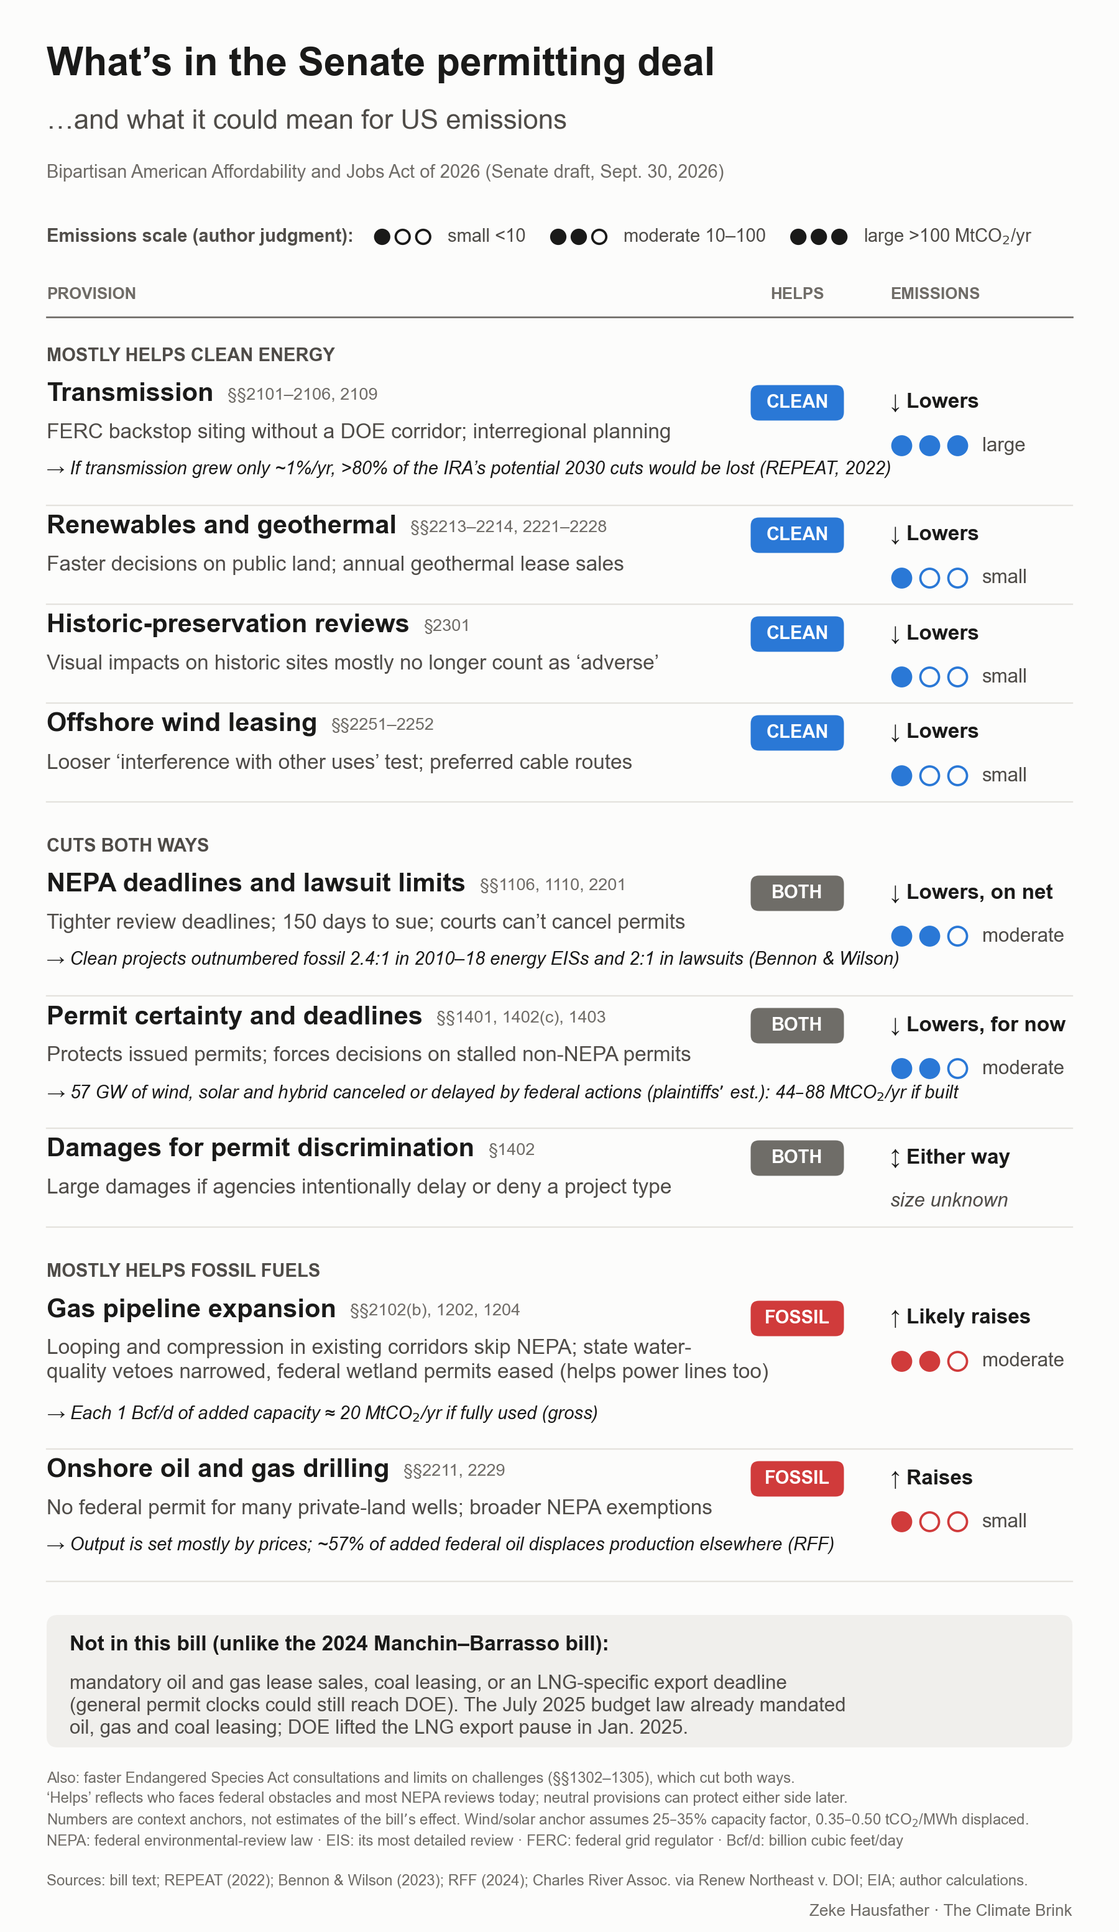
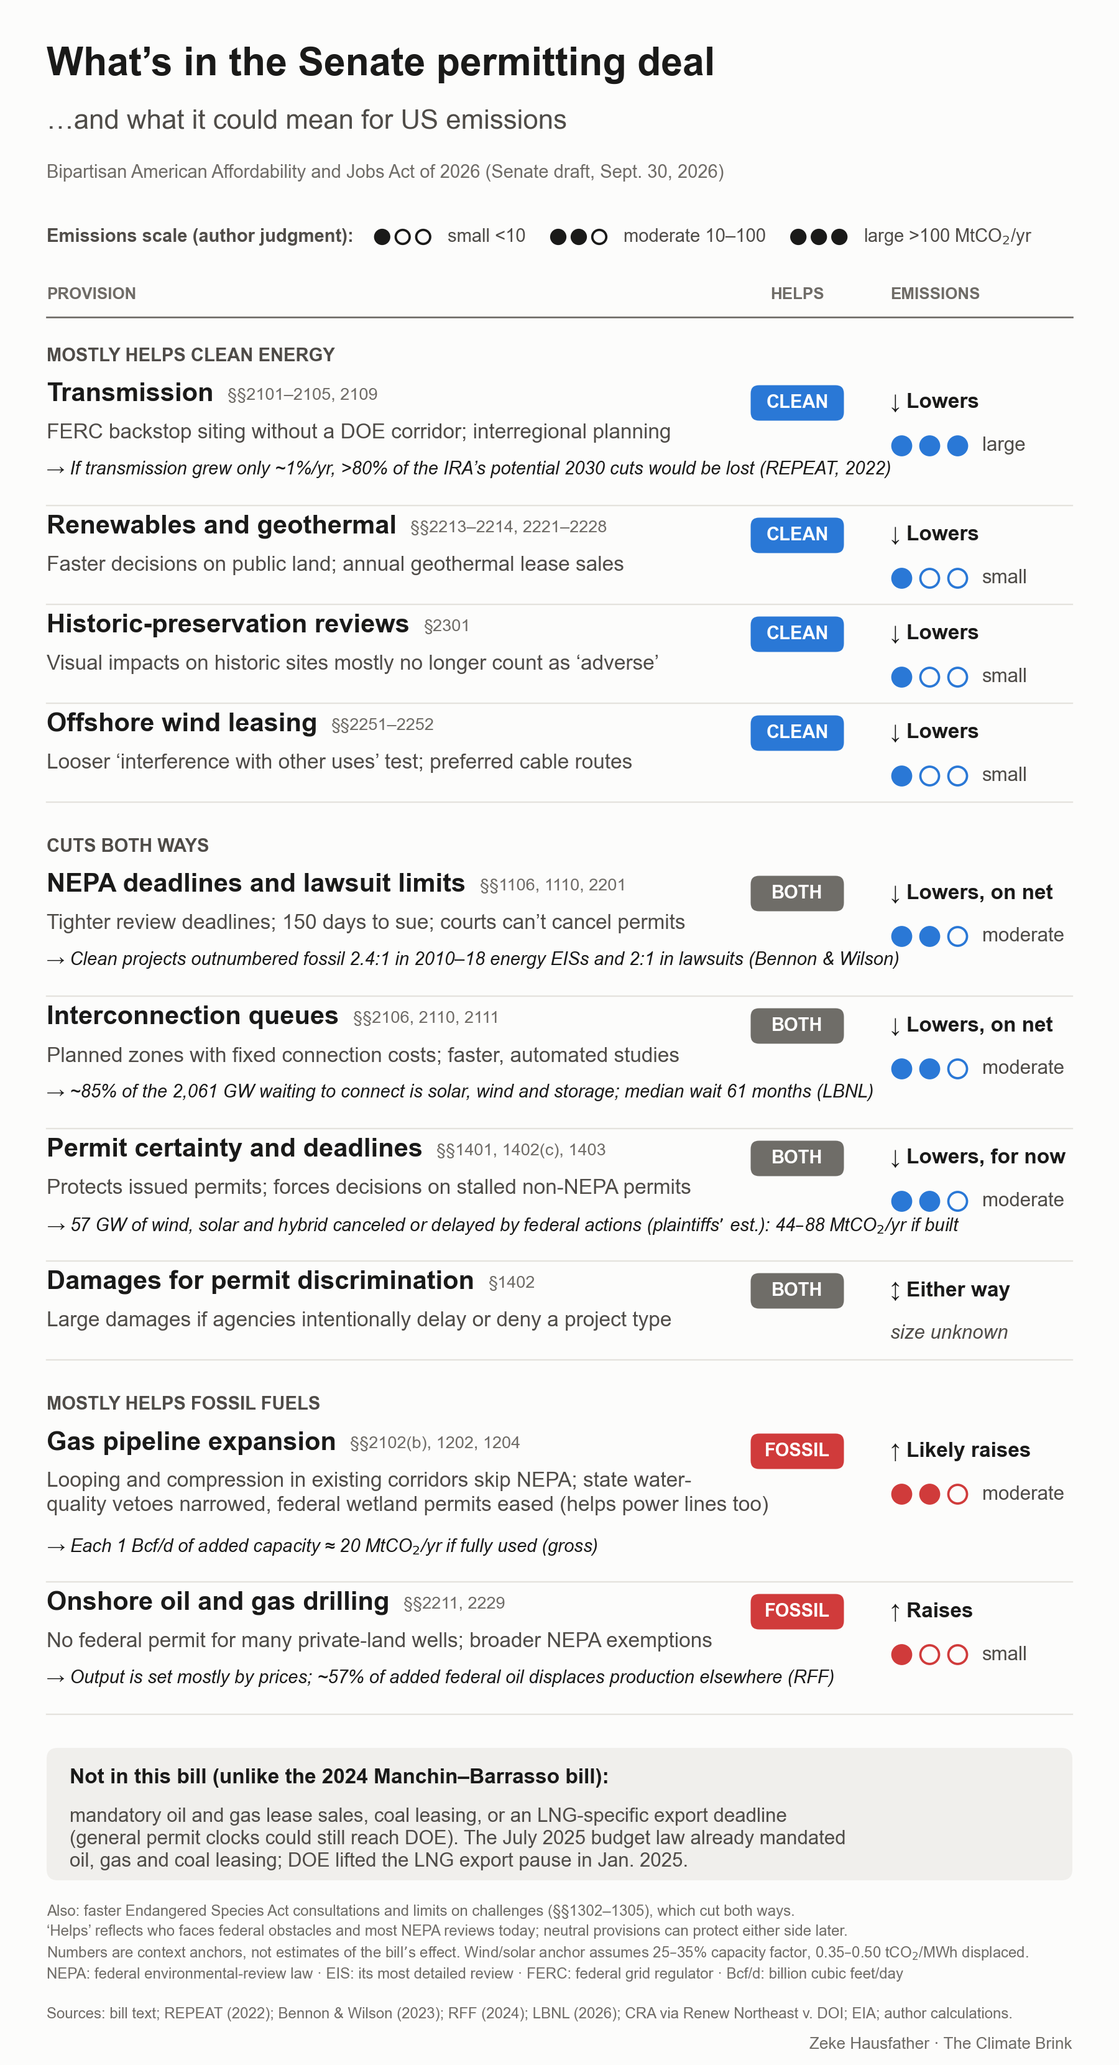
Add interconnection queues row (secs. 2106, 2110, 2111); remove NEPA-scope row

Changed region(s): [[0.0311, 0.0, 0.9644, 0.8115], [0.0311, 0.8427, 0.9333, 0.9987]]

diff --git a/index.html b/index.html
@@ -104,12 +104,13 @@ footer { font-size: .9rem; color: var(--ink3); }
       <thead><tr><th scope="col">Provision</th><th scope="col">What it does</th><th scope="col">Helps</th><th scope="col">Emissions</th></tr></thead>
       <tbody>
 <tr class="grp"><th colspan="4" scope="colgroup">Mostly helps clean energy</th></tr>
-<tr><td class="prov"><strong>Transmission</strong><span class="sec">§§2101–2106, 2109</span></td><td class="what"><p>FERC backstop siting without a DOE corridor; interregional planning</p><p class="anchor">→ If transmission grew only ~1%/yr, &gt;80% of the IRA’s potential 2030 cuts would be lost (REPEAT, 2022) <a href="https://zenodo.org/records/7106176" target="_blank" rel="noopener">source</a></p></td><td class="helps"><span class="chip chip-clean">CLEAN</span></td><td><div class="em em-down"><strong>↓ Lowers</strong><span class="scale"><span class="dot on"></span><span class="dot on"></span><span class="dot on"></span><span>large</span></span></div></td></tr>
+<tr><td class="prov"><strong>Transmission</strong><span class="sec">§§2101–2105, 2109</span></td><td class="what"><p>FERC backstop siting without a DOE corridor; interregional planning</p><p class="anchor">→ If transmission grew only ~1%/yr, &gt;80% of the IRA’s potential 2030 cuts would be lost (REPEAT, 2022) <a href="https://zenodo.org/records/7106176" target="_blank" rel="noopener">source</a></p></td><td class="helps"><span class="chip chip-clean">CLEAN</span></td><td><div class="em em-down"><strong>↓ Lowers</strong><span class="scale"><span class="dot on"></span><span class="dot on"></span><span class="dot on"></span><span>large</span></span></div></td></tr>
 <tr><td class="prov"><strong>Renewables and geothermal</strong><span class="sec">§§2213–2214, 2221–2228</span></td><td class="what"><p>Faster decisions on public land; annual geothermal lease sales</p></td><td class="helps"><span class="chip chip-clean">CLEAN</span></td><td><div class="em em-down"><strong>↓ Lowers</strong><span class="scale"><span class="dot on"></span><span class="dot"></span><span class="dot"></span><span>small</span></span></div></td></tr>
 <tr><td class="prov"><strong>Historic-preservation reviews</strong><span class="sec">§2301</span></td><td class="what"><p>Visual impacts on historic sites mostly no longer count as ‘adverse’</p></td><td class="helps"><span class="chip chip-clean">CLEAN</span></td><td><div class="em em-down"><strong>↓ Lowers</strong><span class="scale"><span class="dot on"></span><span class="dot"></span><span class="dot"></span><span>small</span></span></div></td></tr>
 <tr><td class="prov"><strong>Offshore wind leasing</strong><span class="sec">§§2251–2252</span></td><td class="what"><p>Looser ‘interference with other uses’ test; preferred cable routes</p></td><td class="helps"><span class="chip chip-clean">CLEAN</span></td><td><div class="em em-down"><strong>↓ Lowers</strong><span class="scale"><span class="dot on"></span><span class="dot"></span><span class="dot"></span><span>small</span></span></div></td></tr>
 <tr class="grp"><th colspan="4" scope="colgroup">Cuts both ways</th></tr>
 <tr><td class="prov"><strong>NEPA deadlines and lawsuit limits</strong><span class="sec">§§1106, 1110, 2201</span></td><td class="what"><p>Tighter review deadlines; 150 days to sue; courts can’t cancel permits</p><p class="anchor">→ Clean projects outnumbered fossil 2.4:1 in 2010–18 energy EISs and 2:1 in lawsuits (Bennon &amp; Wilson) <a href="https://www.elr.info/sites/default/files/files-general/53.10836.pdf" target="_blank" rel="noopener">source</a></p></td><td class="helps"><span class="chip chip-both">BOTH</span></td><td><div class="em em-down"><strong>↓ Lowers, on net</strong><span class="scale"><span class="dot on"></span><span class="dot on"></span><span class="dot"></span><span>moderate</span></span></div></td></tr>
+<tr><td class="prov"><strong>Interconnection queues</strong><span class="sec">§§2106, 2110, 2111</span></td><td class="what"><p>Planned zones with fixed connection costs; faster, automated studies</p><p class="anchor">→ ~85% of the 2,061 GW waiting to connect is solar, wind and storage; median wait 61 months (LBNL) <a href="https://emp.lbl.gov/publications/queued-2026-edition-characteristics" target="_blank" rel="noopener">source</a></p></td><td class="helps"><span class="chip chip-both">BOTH</span></td><td><div class="em em-down"><strong>↓ Lowers, on net</strong><span class="scale"><span class="dot on"></span><span class="dot on"></span><span class="dot"></span><span>moderate</span></span></div></td></tr>
 <tr><td class="prov"><strong>Permit certainty and deadlines</strong><span class="sec">§§1401, 1402(c), 1403</span></td><td class="what"><p>Protects issued permits; forces decisions on stalled non-NEPA permits</p><p class="anchor">→ 57 GW of wind, solar and hybrid canceled or delayed by federal actions (plaintiffs’ est.): 44–88 MtCO₂/yr if built <a href="https://www.utilitydive.com/news/court-trump-wind-solar-permitting/818152/" target="_blank" rel="noopener">source</a></p></td><td class="helps"><span class="chip chip-both">BOTH</span></td><td><div class="em em-down"><strong>↓ Lowers, for now</strong><span class="scale"><span class="dot on"></span><span class="dot on"></span><span class="dot"></span><span>moderate</span></span></div></td></tr>
 <tr><td class="prov"><strong>Damages for permit discrimination</strong><span class="sec">§1402</span></td><td class="what"><p>Large damages if agencies intentionally delay or deny a project type</p></td><td class="helps"><span class="chip chip-both">BOTH</span></td><td><div class="em em-both"><strong>↕ Either way</strong><span class="scale"><span>unknown</span></span></div></td></tr>
 <tr class="grp"><th colspan="4" scope="colgroup">Mostly helps fossil fuels</th></tr>
@@ -132,12 +133,12 @@ footer { font-size: .9rem; color: var(--ink3); }
 
   <section class="fig">
     <h2>The graphic</h2>
-    <img src="permitting_infographic_social.png" width="1800" height="2850" loading="lazy" alt="Scorecard graphic of the Senate permitting deal: provisions grouped as mostly helping clean energy, cutting both ways, or mostly helping fossil fuels, each with its likely emissions direction and scale, matching the table above.">
+    <img src="permitting_infographic_social.png" width="1800" height="3063" loading="lazy" alt="Scorecard graphic of the Senate permitting deal: provisions grouped as mostly helping clean energy, cutting both ways, or mostly helping fossil fuels, each with its likely emissions direction and scale, matching the table above.">
   </section>
 
   <section>
     <h2>Sources</h2>
-    <ul><li><a href="https://www.energy.senate.gov/wp-content/uploads/2026/09/Bipartisan-American-Affordability-and-Jobs-Act.pdf" target="_blank" rel="noopener">Bill text (Senate draft, Sept. 30, 2026)</a></li><li><a href="https://zenodo.org/records/7106176" target="_blank" rel="noopener">Princeton REPEAT, transmission and the IRA (2022)</a></li><li><a href="https://www.elr.info/sites/default/files/files-general/53.10836.pdf" target="_blank" rel="noopener">Bennon &amp; Wilson, NEPA litigation over large energy and transport projects (ELR, 2023)</a></li><li><a href="https://www.rff.org/publications/issue-briefs/federal-permitting-reform-expand-oil-and-gas-leasing-carbon-emissions/" target="_blank" rel="noopener">Resources for the Future, federal leasing and global emissions (2024)</a></li><li><a href="https://www.utilitydive.com/news/court-trump-wind-solar-permitting/818152/" target="_blank" rel="noopener">Utility Dive on Renew Northeast v. DOI (Apr. 2026)</a></li></ul>
+    <ul><li><a href="https://www.energy.senate.gov/wp-content/uploads/2026/09/Bipartisan-American-Affordability-and-Jobs-Act.pdf" target="_blank" rel="noopener">Bill text (Senate draft, Sept. 30, 2026)</a></li><li><a href="https://zenodo.org/records/7106176" target="_blank" rel="noopener">Princeton REPEAT, transmission and the IRA (2022)</a></li><li><a href="https://www.elr.info/sites/default/files/files-general/53.10836.pdf" target="_blank" rel="noopener">Bennon &amp; Wilson, NEPA litigation over large energy and transport projects (ELR, 2023)</a></li><li><a href="https://emp.lbl.gov/publications/queued-2026-edition-characteristics" target="_blank" rel="noopener">LBNL, Queued Up: 2026 edition (interconnection queues)</a></li><li><a href="https://www.rff.org/publications/issue-briefs/federal-permitting-reform-expand-oil-and-gas-leasing-carbon-emissions/" target="_blank" rel="noopener">Resources for the Future, federal leasing and global emissions (2024)</a></li><li><a href="https://www.utilitydive.com/news/court-trump-wind-solar-permitting/818152/" target="_blank" rel="noopener">Utility Dive on Renew Northeast v. DOI (Apr. 2026)</a></li></ul>
   </section>
 
   <footer>Ratings are qualitative and reflect the Senate draft as released; they may change with the manager's amendment.</footer>

diff --git a/infographic.py b/infographic.py
@@ -55,7 +55,14 @@ def anchors():
     ow_mt = (ow_twh[0] * MER[0], ow_twh[1] * MER[1])
     # Gas pipeline: 1 Bcf/d fully utilized, EIA 53.06 kg CO2/MMBtu, 1.036 MMBtu/Mcf
     mt_per_bcfd = 1e6 * 53.06 * 1.036 * 365 / 1e9
-    return {"ws_gw": ws_gw, "ws_mt": ws_mt, "ow_gw": ow_gw, "ow_mt": ow_mt,
+    # Interconnection queue, end of 2025 (LBNL Queued Up 2026 edition), GW active.
+    q = {"solar": 773, "storage": 749, "wind": 220, "gas": 253}
+    q_total = 2061                     # LBNL total active capacity (generation + storage)
+    q_clean_share = (q["solar"] + q["storage"] + q["wind"]) / q_total
+    q_gas_share = q["gas"] / q_total
+    q_median_months = 61               # median request-to-operation, projects built in 2025
+    return {"q_total": q_total, "q_clean_share": q_clean_share, "q_gas_share": q_gas_share,
+            "q_months": q_median_months, "ws_gw": ws_gw, "ws_mt": ws_mt, "ow_gw": ow_gw, "ow_mt": ow_mt,
             "pipe_mt": mt_per_bcfd}
 
 
@@ -67,7 +74,7 @@ LO, HI = A["ws_mt"]
 
 GROUPS = [
     ("Mostly helps clean energy", [
-        dict(name="Transmission", sec="§§2101–2106, 2109",
+        dict(name="Transmission", sec="§§2101–2105, 2109",
              what="FERC backstop siting without a DOE corridor; interregional planning",
              lean="clean", dir="down", dlab="Lowers", scale=3,
              anchor="If transmission grew only ~1%/yr, >80% of the IRA’s potential "
@@ -88,6 +95,11 @@ GROUPS = [
              lean="both", dir="down", dlab="Lowers, on net", scale=2,
              anchor="Clean projects outnumbered fossil 2.4:1 in 2010–18 energy EISs "
                     "and 2:1 in lawsuits (Bennon & Wilson)"),
+        dict(name="Interconnection queues", sec="§§2106, 2110, 2111",
+             what="Planned zones with fixed connection costs; faster, automated studies",
+             lean="both", dir="down", dlab="Lowers, on net", scale=2,
+             anchor=f"~{A['q_clean_share']*100:.0f}% of the {A['q_total']:,} GW waiting to connect is "
+                    f"solar, wind and storage; median wait {A['q_months']} months (LBNL)"),
         dict(name="Permit certainty and deadlines", sec="§§1401, 1402(c), 1403",
              what="Protects issued permits; forces decisions on stalled non-NEPA permits",
              lean="both", dir="down", dlab="Lowers, for now", scale=2,
@@ -244,8 +256,8 @@ def render(show_box, out):
     ]
     ax.text(L, 1.72, "\n".join(foot), fontsize=11.5, color=INK3, va="top",
             linespacing=1.5)
-    ax.text(L, 0.62, "Sources: bill text; REPEAT (2022); Bennon & Wilson (2023); RFF (2024); "
-            "Charles River Assoc. via Renew Northeast v. DOI; EIA; author calculations.",
+    ax.text(L, 0.62, "Sources: bill text; REPEAT (2022); Bennon & Wilson (2023); RFF (2024); LBNL (2026); "
+            "CRA via Renew Northeast v. DOI; EIA; author calculations.",
             fontsize=11.5, color=INK3, va="top")
     ax.text(R, 0.3, "Zeke Hausfather · The Climate Brink", fontsize=12.5,
             color=INK3, va="top", ha="right")
@@ -258,6 +270,6 @@ def render(show_box, out):
 if __name__ == "__main__":
     render(show_box=True, out="permitting_infographic.png")          # for the post
     render(show_box=False, out="permitting_infographic_social.png")  # for social media
-    print("anchors:", {k: (round(v, 2) if isinstance(v, float) else tuple(round(x, 1) for x in v))
+    print("anchors:", {k: (tuple(round(x, 1) for x in v) if isinstance(v, tuple) else round(v, 3))
                        for k, v in A.items()})
 

diff --git a/build_share.py b/build_share.py
@@ -21,6 +21,8 @@ ANCHOR_SOURCE = {
     "NEPA deadlines and lawsuit limits": (
         "Bennon & Wilson (2023), Table 1; author's recount",
         "https://www.elr.info/sites/default/files/files-general/53.10836.pdf"),
+    "Interconnection queues": ("LBNL, Queued Up 2026 edition; author calculation",
+                               "https://emp.lbl.gov/publications/queued-2026-edition-characteristics"),
     "Permit certainty and deadlines": (
         "Charles River Associates estimate cited in Renew Northeast v. DOI (via Utility Dive); author calculation",
         "https://www.utilitydive.com/news/court-trump-wind-solar-permitting/818152/"),
@@ -48,6 +50,7 @@ SOURCES = [
     ("Princeton REPEAT, transmission and the IRA (2022)", "https://zenodo.org/records/7106176"),
     ("Bennon & Wilson, NEPA litigation over large energy and transport projects (ELR, 2023)",
      "https://www.elr.info/sites/default/files/files-general/53.10836.pdf"),
+    ("LBNL, Queued Up: 2026 edition (interconnection queues)", "https://emp.lbl.gov/publications/queued-2026-edition-characteristics"),
     ("Resources for the Future, federal leasing and global emissions (2024)",
      "https://www.rff.org/publications/issue-briefs/federal-permitting-reform-expand-oil-and-gas-leasing-carbon-emissions/"),
     ("Utility Dive on Renew Northeast v. DOI (Apr. 2026)",

diff --git a/METHODS.md b/METHODS.md
@@ -16,11 +16,12 @@ Every provision description was checked against the bill text. An independent ad
 
 | Provision | Lean | Scale | Rationale |
 |---|---|---|---|
-| Transmission (§§2101–2106, 2109) | Clean | Large | Transmission is the binding constraint (REPEAT 2022). The 'large' rating is generous after OBBBA cut the credits behind REPEAT's IRA-era numbers. Caveats: ERCOT is excluded. Backstop permits and plan-selected lines must "provide improved reliability" (new FPA 216(b)(4), §225(d)(3)), though the definition in §225(a)(4) is broad. The interregional mandate is procedural. FERC implementation risk. OBBBA reduces the marginal clean deployment unlocked. |
+| Transmission (§§2101–2105, 2109) | Clean | Large | Transmission is the binding constraint (REPEAT 2022). The 'large' rating is generous after OBBBA cut the credits behind REPEAT's IRA-era numbers. Caveats: ERCOT is excluded. Backstop permits and plan-selected lines must "provide improved reliability" (new FPA 216(b)(4), §225(d)(3)), though the definition in §225(a)(4) is broad. The interregional mandate is procedural. FERC implementation risk. OBBBA reduces the marginal clean deployment unlocked. |
 | NEPA deadlines/litigation (§§1106, 1110, 2201) | Both (lowers, on net) | Moderate | The provisions are facially neutral, but clean energy dominates the EIS pipeline. Bennon & Wilson (2023, ELR Table 1) cover 171 energy EIS projects from 2010–18. Of these, 97 are clean (solar 22, wind 13, transmission 42, hydro 14, geothermal 3, nuclear 2, pumped storage 1), 40 are fossil (pipeline 18, liquefaction 7, regasification 1, gas plant 2, coal plant 2, coal mine 4, gas mine 6), and 34 are other (programmatic 15, waste 8, bio 3, CCS 2, other mine 4, other energy 2). Clean is 57% of all energy EISs and fossil 23%, a ratio of 2.4:1. Among litigated projects, clean is 34 of about 58 (~59%) and fossil 17 (~29%), about 2:1. Per-project litigation rates are clean 35% and fossil 42%. An earlier version of the graphic reported ~70% and 2/3; those shares used the clean+fossil subset only and were corrected. IFP (2024) reports 62% clean vs 16% fossil among energy EISs. Counterpoints behind the BOTH label: (1) §2201's 150-day limit covers oil and gas lease sales (§2201(a)(1)(B)(i)); (2) §1110's no-vacatur remedy covers EA-level reviews, where BLM oil and gas work sits (5 EISs vs 381 EAs vs 77 CEs), and B&W's EIS-only sample can't see this tier; (3) vacatur stopped several fossil projects (Lease Sale 257, Willow, the Dakota Access easement, Sabal Trail). The author's colleagues argued for the lowers-emissions lean, citing land intensity, visibility to opposition, location of shale on private land, and renewables' greater potential for growth. |
 | Offshore wind (§§2251–2252) | Clean | Small | Looser OCSLA 8(p)(4)(I) standard, preferred cable routes, and DOI as lead agency. Economics, not permits, are the main constraint after the IRA. |
 | NHPA (§2301) | Clean | Small | Procedural; saves time and mitigation cost; §110(f) landmarks untouched. |
 | Renewables/geothermal (§§2213–2214, 2221–2228) | Clean | Small | Federal land is a small share of wind and solar siting. §2108 was removed from this row because its behind-the-meter definition includes fossil backup generators. |
+| Interconnection queues (§§2106, 2110, 2111) | Both (lowers, on net) | Moderate | §2106 requires consolidated 20-year generation-transmission planning with "resource and fuel-neutral planned interconnection locations", "upfront, fixed, zonal, per-megawatt" costs, single-decision-point cluster studies, nonrefundable financial security and withdrawal penalties. FERC has 18 months for the rule, and regions file within 2 years. §2110 covers AI and automation in queue processing; §2111 requires grid data within 15 days plus an automated-study specification. The provisions are fuel-neutral, but the queue is mostly clean. LBNL Queued Up 2026 (end of 2025) shows solar 773, storage 749, wind 220 and gas 253 GW of a 2,061 GW total, so solar+wind+storage = 84.5% and gas = 12.3% (computed in `anchors()`). The median wait was 61 months for projects built in 2025. Caveats: the gas queue grew 86% in 2025 while the others shrank; gas may have higher completion rates; withdrawal penalties mostly clear speculative solar and wind, which speeds up real projects of all types; FERC Order 2023 already required cluster studies, so part of this is codification. Added at Zeke's request; he agreed that it benefits both renewables and gas. |
 | Permit certainty and deadlines (§§1401–1403) | Both | Moderate | §1401 protects issued permits of any type (including pipelines and LNG) and is clean-leaning today. §§1402(c)/1403 force decisions (not approvals) on stalled non-NEPA permits. The §§1402(c)/1403 deadlines reach only permits that need no EIS or EA. Anchor: 57.2 GW of wind, solar, hybrid and offshore capacity canceled or delayed beyond 2029. This is a plaintiffs' consultant estimate (Charles River Associates) cited by the court in Renew Northeast v. DOI (PI of Apr 21 2026), via Utility Dive. At an ASSUMED 25–35% capacity factor and 0.35–0.50 t/MWh, that is 44–88 MtCO₂/yr if built. It is not all attributable to the bill, since deadlines force decisions, not approvals, and §1402 claims wait 180–280 days. |
 | Disparate-treatment damages (§1402) | Both | Unknown | Deters future pauses (e.g., LNG); the magnitude depends on future administrations. |
 | Pipeline expansion (§§2102(b), 1202, 1204) | Fossil | Moderate | Pipeline capacity is binding in the Northeast. Gross anchor: 20 MtCO₂/yr per Bcf/d. The net effect depends on displacement and methane. The 401 and 404 changes also help power lines. |

diff --git a/README.md b/README.md
@@ -42,6 +42,7 @@ To change a rating or a description, edit `GROUPS` in `infographic.py`, then run
 - Bill text: [Senate Energy and Natural Resources Committee](https://www.energy.senate.gov/wp-content/uploads/2026/09/Bipartisan-American-Affordability-and-Jobs-Act.pdf)
 - [Princeton REPEAT (2022)](https://zenodo.org/records/7106176), transmission and the IRA
 - [Bennon & Wilson (2023)](https://www.elr.info/sites/default/files/files-general/53.10836.pdf), NEPA litigation over large energy and transport projects (Table 1 recounted by the author)
+- [LBNL, Queued Up: 2026 edition](https://emp.lbl.gov/publications/queued-2026-edition-characteristics), interconnection queues
 - [Resources for the Future (Prest, 2024)](https://www.rff.org/publications/issue-briefs/federal-permitting-reform-expand-oil-and-gas-leasing-carbon-emissions/), federal leasing and global emissions
 - [Utility Dive (April 2026)](https://www.utilitydive.com/news/court-trump-wind-solar-permitting/818152/), on the Charles River Associates estimate cited in *Renew Northeast v. DOI*
 - EIA CO₂ emission factors for natural gas
